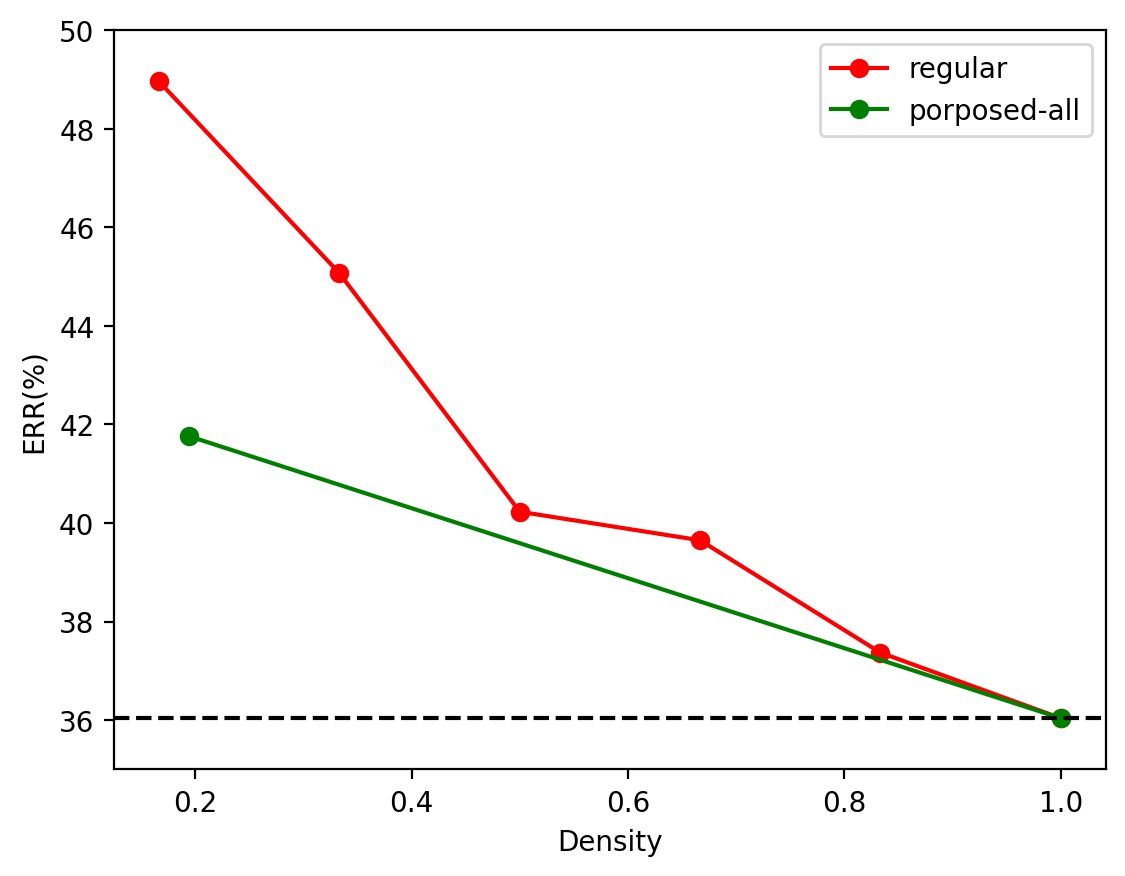
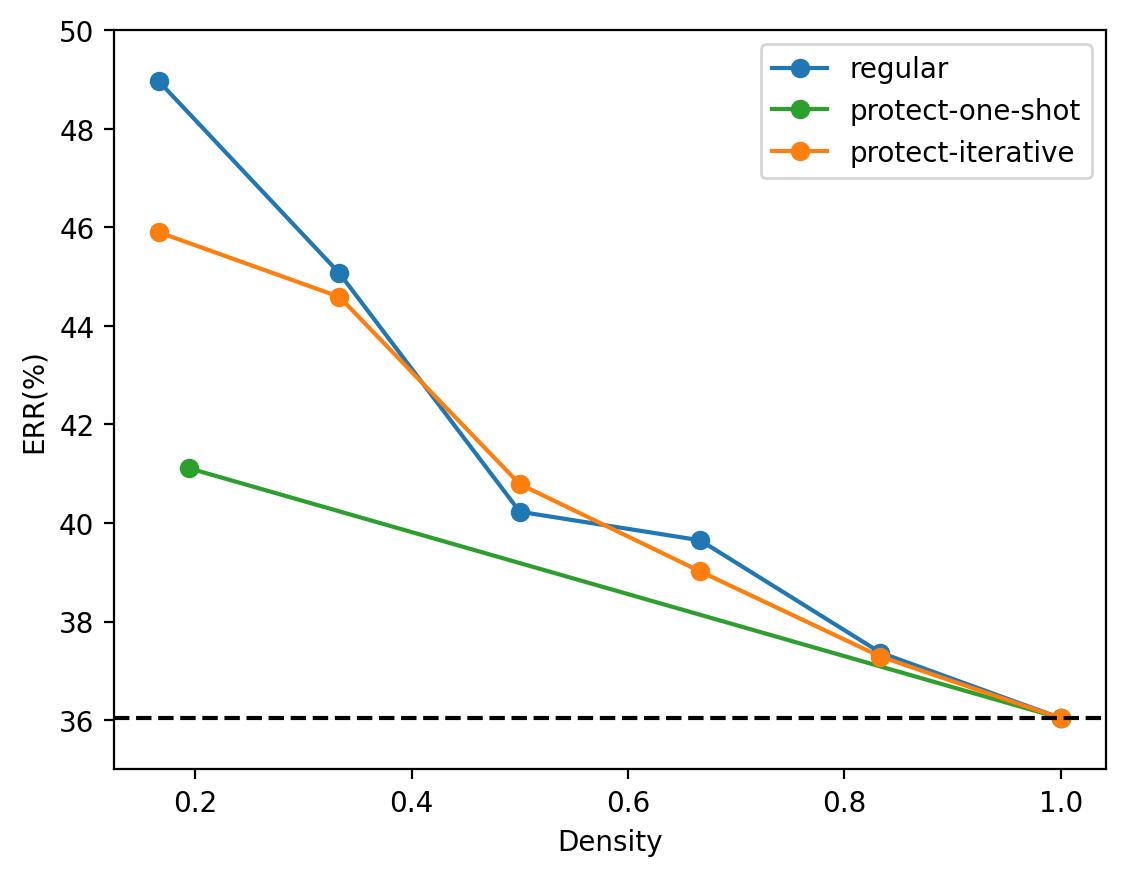
remove redundant

diff --git a/reproduce_figure/draw.py b/reproduce_figure/draw.py
@@ -197,17 +197,18 @@ def row_pruning_regular_n_ps_keys():
     plt.savefig('fig/row-pruning-regular-n-ps-keys.png', bbox_inches='tight', dpi=200)
 
 def row_pruning_pr():
-    # methods = ['regular', 'proposed-128', 'proposed-all']
-    methods = ['regular', 'proposed']
+    methods = ['regular', 'protect-128', 'protect-all']
     per = {
         'regular': [14.08, 9.89, 8.82, 8.92, 8.72, 8.17],
-        'proposed-128': [],
-        'proposed-all': [10.48, 8.17]
+        'protect-128': [10.80, 8.99, 7.98, 7.42, 7.14, 8.17],
+        'protect-all': [10.66, 8.17],
+        # 'each-all': [10.95, 8.17],
     }
     rows = {
         'regular': [512, 1024, 1536, 2048, 2560, 3072],
-        'proposed-128': [512, 1024, 1536, 2048, 2560, 3072],
-        'proposed-all': [598, 3072]
+        'protect-128': [512, 1024, 1536, 2048, 2560, 3072],
+        'protect-all': [598, 3072],
+        # 'each-all': [434, 3072],
     }
     # Calculate density 
     D = 3072 
@@ -216,37 +217,40 @@ def row_pruning_pr():
         density[k] = [i/D for i in v]
 
     colors = {
-        'regular': 'red',
-        'proposed-128': 'blue',
-        'proposed-all': 'green'
+        'regular': 'C0',
+        'protect-128': 'C1',
+        'protect-all': 'C2',
+        # 'each-all': 'C3',
     }
     labels = {
         'regular': 'regular',
-        'proposed-128': 'proposed-128',
-        'proposed-all': 'porposed-all'
+        'protect-128': 'protect-iterative',
+        'protect-all': 'protect-one-shot',
+        # 'each-all': 'each-all',
     }
-
     for m in methods:
         plt.plot(density[m], per[m], label=labels[m], color=colors[m], marker='o')
     plt.legend()
     plt.axhline(per['regular'][-1], linestyle='--', color='black')
-    plt.ylim(7, 22)
+    plt.ylim(7, 15)
     plt.xlabel('Density')
     plt.ylabel('PER(%)')
     plt.savefig('fig/row-pruning-pr.png', bbox_inches='tight', dpi=200)
+    plt.clf()
 
 def row_pruning_sid():
-    # methods = ['regular', 'proposed-128', 'proposed-all']
-    methods = ['regular', 'proposed-all']
+    methods = ['regular', 'protect-all', 'protect-128']
     acc = {
         'regular': [51.04, 54.93, 59.77, 60.35, 62.63, 63.96],
-        'proposed-128': [],
-        'proposed-all': [58.24, 63.96]
+        'protect-128': [54.10, 55.41, 59.21, 60.98, 62.71, 63.96],
+        'protect-all': [58.89, 63.96],
+        # 'each-all': [59.37, 63.96],
     }
     rows = {
         'regular': [512, 1024, 1536, 2048, 2560, 3072],
-        'proposed-128': [512, 1024, 1536, 2048, 2560, 3072],
-        'proposed-all': [598, 3072]
+        'protect-128': [512, 1024, 1536, 2048, 2560, 3072],
+        'protect-all': [598, 3072],
+        # 'each-all': [434, 3072],
     }
     # Calculate density 
     D = 3072 
@@ -254,14 +258,16 @@ def row_pruning_sid():
     for k, v in rows.items():
         density[k] = [i/D for i in v]
     colors = {
-        'regular': 'red',
-        'proposed-128': 'blue',
-        'proposed-all': 'green'
+        'regular': 'C0',
+        'protect-128': 'C1',
+        'protect-all': 'C2',
+        # 'each-all': 'C3',
     }
     labels = {
         'regular': 'regular',
-        'proposed-128': 'proposed-128',
-        'proposed-all': 'porposed-all'
+        'protect-128': 'protect-iterative',
+        'protect-all': 'protect-one-shot',
+        # 'each-all': 'each-all',
     }
     for m in methods:
         plt.plot(density[m], [100-i for i in acc[m]], label=labels[m], color=colors[m], marker='o')
@@ -271,6 +277,7 @@ def row_pruning_sid():
     plt.xlabel('Density')
     plt.ylabel('ERR(%)')
     plt.savefig('fig/row-pruning-sid.png', bbox_inches='tight', dpi=200)
+    plt.clf()
 
 def match_prob():
     v_data = np.load('data/match_prob.npy')
@@ -401,11 +408,15 @@ def task_specific_bar():
     ax2.set_ylabel('SID ERR (%)')
     # Legend
     plt.savefig('fig/task-specific-bar.png', bbox_inches='tight', dpi=200)
-
+    
 def task_specific_pruning():
     task_specific_pr()
     task_specific_sid()
     task_specific_bar()
+
+def ssl_pruning():
+    row_pruning_pr()
+    row_pruning_sid()
 
 if __name__ == '__main__':
     parser = argparse.ArgumentParser()
@@ -414,7 +425,7 @@ if __name__ == '__main__':
                 'model_compare', 'layer_n_ps_compare',
                 'venn_ps_keys', 'row_pruning_regular_n_ps_keys',
                 'row_pruning_pr', 'row_pruning_sid', 'match_prob',
-                'values_tsne', 'task_specific_pruning']
+                'values_tsne', 'task_specific_pruning', 'ssl_pruning']
             ,help='Mode of drawing figure')
     args = parser.parse_args()
     eval(args.mode)()
